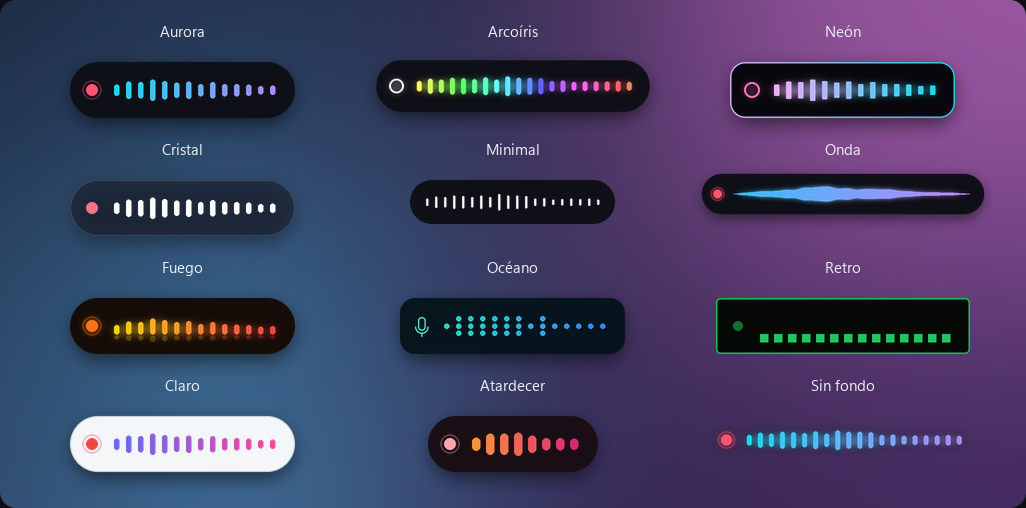
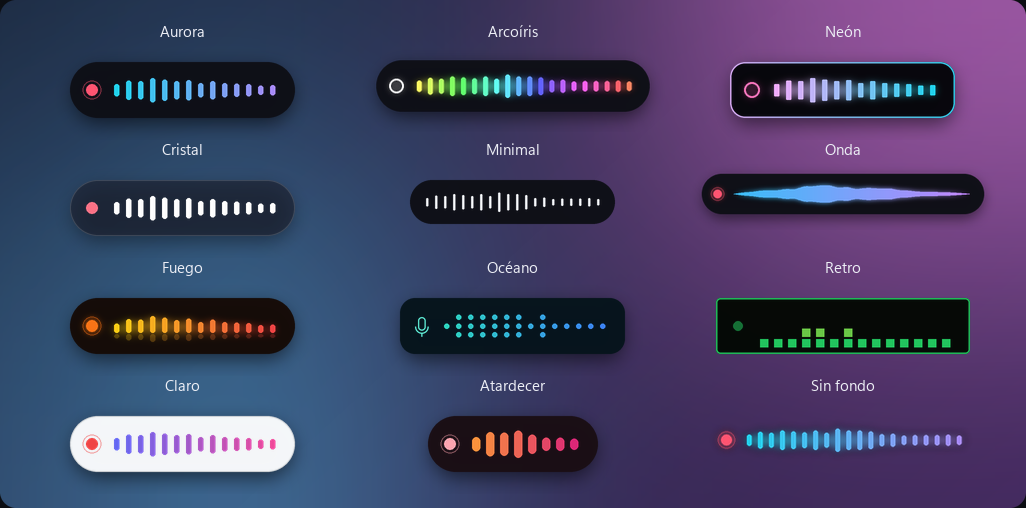
feat: barras más exageradas y deslizador de intensidad (v1.2.1)
Solo cambia cómo se VE el movimiento; el audio y la transcripción quedan igual.
- Curva de exageración (looks.exaggerate): la voz baja o lejana ahora mueve
  las barras claramente y la fuerte llega al tope; el silencio sigue quieto.
- Barras con más recorrido en los 6 estilos (hasta ~78% del alto), verificado
  que nunca se salen de la forma: 648 combinaciones al 100%, 0 píxeles afuera.
- Suben rápido y bajan suave (looks.follow): se ven más vivas.
- Ajustes: deslizador "Intensidad de las barras" (80% por defecto) con la
  vista previa reaccionando en vivo mientras se mueve.

diff --git a/looks.py b/looks.py
@@ -78,6 +78,7 @@ PRESETS = [
 ]
 PRESET_IDS = [p[0] for p in PRESETS]
 SPEED = {"smooth": 0.3, "normal": 0.6, "snappy": 0.9}
+DEFAULT_INTENSITY = 0.8   # exageración visual por defecto (Ajustes → Intensidad de las barras)
 MARGIN = 22
 _BG_ALPHA = {"solid": 250, "glass": 176, "none": 0}
 _SIZES = {"small": (44, 4, 5, 36), "normal": (56, 5, 7, 44), "large": (68, 6, 8, 52)}
@@ -177,9 +178,44 @@ def resample(bands, n):
     return np.interp(np.linspace(0, len(b) - 1, n), np.arange(len(b)), b).tolist()
 
 
+def exaggerate(levels, amount):
+    """Curva visual de las barras. amount 0..1: 0 = tal como llega del micrófono;
+    1 = muy exagerada (lo bajo se levanta mucho y lo alto llega al tope seguido).
+    Solo cambia cómo se VE: la transcripción usa el audio tal cual."""
+    try:
+        a = max(0.0, min(1.0, float(amount)))
+    except (TypeError, ValueError):
+        a = DEFAULT_INTENSITY
+    gain, gamma = 1 + 2.2 * a, 1 / (1 + 1.2 * a)
+    return [min(1.0, (max(0.0, v) * gain) ** gamma) for v in levels]
+
+
+def follow(bars, target, speed):
+    """Acerca las barras al objetivo: suben rápido y bajan más suave (se ven vivas)."""
+    k = SPEED.get(speed, 0.6)
+    up, down = min(1.0, k * 1.6), k * 0.7
+    return [b + (x - b) * (up if x > b else down) for b, x in zip(bars, target)]
+
+
+def fake_bands(n, t):
+    """Como las bandas reales del micrófono (espectro de voz: casi todo bajo y un par
+    de bandas fuertes). La vista previa las pasa por exaggerate() para mostrar el
+    efecto de la intensidad elegida."""
+    env = max(0.0, 0.5 * math.sin(t * 2.3) + 0.32 * math.sin(t * 5.1) + 0.28)
+    loud = min(1.0, env * 1.1)
+    out = []
+    for i in range(n):
+        f = i / max(1, n - 1)
+        shape = (math.exp(-((f - 0.22) / 0.16) ** 2)
+                 + 0.4 * math.exp(-((f - 0.55) / 0.12) ** 2) + 0.06)
+        wob = 0.5 + 0.5 * math.sin(t * 9.0 + i * 1.7) * math.cos(t * 4.3 + i * 0.9)
+        out.append(min(1.0, loud * shape * (0.45 + 0.55 * wob)))
+    return out
+
+
 def fake_levels(n, t):
     """Niveles que parecen voz (sílabas con pausas, más energía en graves-medios),
-    para las vistas previas."""
+    para las miniaturas de la galería."""
     env = max(0.0, 0.55 * math.sin(t * 2.3) + 0.35 * math.sin(t * 5.1) + 0.3)
     out = []
     for i in range(n):
@@ -316,7 +352,7 @@ def _bars(img, d, s, g, levels, t, S):
     if s["bars"] == "wave":
         return _wave(img, s, g, levels, t, S)
     cols = bar_colors(s, n, t)
-    maxh, minh = g["h"] * 0.66 * S, bw
+    maxh, minh = g["h"] * 0.78 * S, bw          # 78% del alto: margen para no salirse nunca
     for i in range(n):
         lv = max(0.0, min(1.0, levels[i] if i < len(levels) else 0.0))
         x = x0 + i * (bw + gap)
@@ -333,14 +369,14 @@ def _bars(img, d, s, g, levels, t, S):
                 y = cy + (j - (lit - 1) / 2) * step
                 d.ellipse([x, y - bw / 2, x + bw, y + bw / 2], fill=c)
         elif s["bars"] == "mirror":
-            base = (MARGIN + g["h"] * 0.64) * S
-            h = minh + lv * (g["h"] * 0.46 * S - minh)
+            base = (MARGIN + g["h"] * 0.62) * S
+            h = minh + lv * (g["h"] * 0.52 * S - minh)
             d.rounded_rectangle([x, base - h, x + bw, base], radius=bw / 2, fill=c)
             d.rounded_rectangle([x, base + 1.5 * S, x + bw, base + 1.5 * S + h * 0.42],
                                 radius=bw / 2, fill=_rgba(cols[i], 64))
         else:   # blocks (vúmetro retro)
             sq, gb = bw, max(S, bw * 0.34)
-            slots = max(3, int(g["h"] * 0.7 * S / (sq + gb)))
+            slots = max(3, int(g["h"] * 0.8 * S / (sq + gb)))
             lit = max(1, round(lv * slots))
             base = cy + slots * (sq + gb) / 2
             for j in range(lit):
@@ -353,7 +389,7 @@ def _bars(img, d, s, g, levels, t, S):
 def _wave(img, s, g, levels, t, S):
     n = len(levels)
     x0, cy = (MARGIN + g["left"]) * S, (MARGIN + g["h"] / 2) * S
-    width, amp = g["bars_w"] * S, g["h"] * 0.34 * S
+    width, amp = g["bars_w"] * S, g["h"] * 0.4 * S
     xf = np.linspace(0, 1, max(2, n) * 10)
     y = np.interp(xf, np.linspace(0, 1, max(2, n)), (list(levels) + [0, 0])[:max(2, n)])
     y = np.convolve(y, np.ones(9) / 9, mode="same")

diff --git a/ui.py b/ui.py
@@ -753,6 +753,59 @@ class Swatches(Flow):
         self.on_change(color)
 
 
+class Slider(tk.Canvas):
+    """Deslizador 0..1: pista redondeada, relleno con el degradé de la marca y perilla.
+    on_change mientras se arrastra (en vivo); on_release al soltar (para guardar)."""
+
+    H, KNOB = 30, 20
+
+    def __init__(self, parent, value, on_change, on_release=None, bg=SURFACE):
+        super().__init__(parent, height=self.H, bg=bg, highlightthickness=0, bd=0, cursor="hand2")
+        self.value = max(0.0, min(1.0, float(value)))
+        self.on_change, self.on_release = on_change, on_release
+        self._imgs, self._hover = {}, False
+        self._track = self.create_image(0, 0, anchor="w")
+        self._fill = self.create_image(0, 0, anchor="w")
+        self._knob = self.create_image(0, 0)
+        self.bind("<Configure>", lambda e: self._paint())
+        self.bind("<Button-1>", self._drag)
+        self.bind("<B1-Motion>", self._drag)
+        self.bind("<ButtonRelease-1>", lambda e: self.on_release and self.on_release(self.value))
+        self.bind("<Enter>", lambda e: self._set_hover(True))
+        self.bind("<Leave>", lambda e: self._set_hover(False))
+
+    def _ends(self):
+        pad = self.KNOB // 2 + 2
+        return pad, max(pad + 1, self.winfo_width() - pad)
+
+    def _paint(self):
+        if self.winfo_width() < 30:
+            return
+        x0, x1 = self._ends()
+        cy, tw = self.H / 2, x1 - x0
+        self._imgs["track"] = shape(tw, 6, 3, fill=FIELD_HI)
+        self._imgs["fill"] = shape(max(6, round(tw * self.value)), 6, 3, grad=(CYAN, VIOLET))
+        k = self.KNOB + (2 if self._hover else 0)
+        self._imgs["knob"] = shape(k, k, k // 2, fill="#ffffff", border=mix(VIOLET, "#ffffff", 0.3),
+                                   bw=2)
+        for item, key, x in ((self._track, "track", x0), (self._fill, "fill", x0),
+                             (self._knob, "knob", x0 + tw * self.value)):
+            self.itemconfigure(item, image=self._imgs[key])
+            self.coords(item, x, cy)
+
+    def _drag(self, e):
+        x0, x1 = self._ends()
+        v = max(0.0, min(1.0, (e.x - x0) / max(1, x1 - x0)))
+        if abs(v - self.value) > 0.004:
+            self.value = v
+            self._paint()
+            self.on_change(v)
+
+    def _set_hover(self, on):
+        self._hover = on
+        self._paint()
+
+
 _walls = {}
 
 
@@ -785,9 +838,11 @@ class Stage(tk.Canvas):
     """Vista previa animada de la ventanita (voz simulada) sobre un fondo tipo
     escritorio. Solo dibuja mientras está visible y no pausada."""
 
-    def __init__(self, parent, get_style, height=130, bg=SURFACE, fps=25, radius=12):
+    def __init__(self, parent, get_style, height=130, bg=SURFACE, fps=25, radius=12,
+                 get_intensity=None):
         super().__init__(parent, height=height, bg=bg, highlightthickness=0, bd=0)
         self.get_style, self.state, self.paused = get_style, "recording", False
+        self.get_intensity = get_intensity    # si está: voz realista + la exageración elegida
         self._bg, self._r, self._ms = bg, radius, int(1000 / fps)
         self._photo = None
         self._item = self.create_image(0, 0, anchor="nw")
@@ -811,11 +866,15 @@ class Stage(tk.Canvas):
         t = time.perf_counter() - self._t0
         s = self.get_style()
         n = s["bar_count"]
-        target = looks.fake_levels(n, t) if self.state == "recording" else [0.0] * n
+        if self.state != "recording":
+            target = [0.0] * n
+        elif self.get_intensity:
+            target = looks.exaggerate(looks.fake_bands(n, t), self.get_intensity())
+        else:
+            target = looks.fake_levels(n, t)
         if len(self._bars) != n:
             self._bars = [0.0] * n
-        k = looks.SPEED[s["speed"]]
-        self._bars = [b + (x - b) * k for b, x in zip(self._bars, target)]
+        self._bars = looks.follow(self._bars, target, s["speed"])
         frame = looks.render(s, self.state, self._bars, t)
         sc = min(1.0, (w - 16) / frame.width, (h - 4) / frame.height)
         if sc < 1:

diff --git a/settings.py b/settings.py
@@ -153,7 +153,7 @@ def sample_context():
     ]
     cfg = SimpleNamespace(
         mic_index=-1, hotkey="<f9>", hotkey_display="F9", sound_pack="suave",
-        overlay_preset="aurora", overlay_custom={}, overlay_mine=[],
+        overlay_preset="aurora", overlay_custom={}, overlay_mine=[], bar_intensity=0.8,
         vocabulary="Claude, GitHub, Python, React, TypeScript, Docker, Kubernetes, Figma, Notion, "
                    "Slack, Vercel, Supabase, Stripe, Tailwind, PostgreSQL, Whisper, PowerShell, "
                    "VS Code, Linear, Jira")
@@ -285,7 +285,7 @@ class SettingsView(_Toast):
         card.pack(fill="x", pady=(0, 28))
         b = card.body
         self.stage = ui.Stage(b, get_style=lambda: looks.current(self.ctx.config), height=112,
-                              fps=20)
+                              fps=24, get_intensity=self._intensity)
         self.stage.configure(cursor="hand2")
         self.stage.bind("<ButtonRelease-1>", lambda e: self._open_looks())
         self.stage.pack(fill="x")
@@ -295,6 +295,35 @@ class SettingsView(_Toast):
         self.look_name.pack(side="left")
         ui.label(row2, "Elegí un estilo o armá el tuyo", F.small, ui.TEXT_3).pack(side="right")
         self._refresh_look()
+
+        ui.separator(b).pack(fill="x", pady=18)
+        head = tk.Frame(b, bg=ui.SURFACE)
+        head.pack(fill="x")
+        ui.label(head, "Intensidad de las barras", F.body_sb).pack(side="left")
+        self.int_label = ui.label(head, "", F.small_sb, ui.ACCENT)
+        self.int_label.pack(side="right")
+        ui.label(b, "Cuánto se mueven con tu voz: mirá la vista previa mientras lo movés. "
+                    "Solo cambia cómo se ve, no cómo te entiende.", F.small, ui.TEXT_3,
+                 wraplength=440).pack(anchor="w", pady=(3, 8))
+        ui.Slider(b, self._intensity(), on_change=self._set_intensity,
+                  on_release=lambda v: self._saved()).pack(fill="x")
+        ends = tk.Frame(b, bg=ui.SURFACE)
+        ends.pack(fill="x", pady=(2, 0))
+        ui.label(ends, "Sutil", F.tiny, ui.TEXT_3).pack(side="left")
+        ui.label(ends, "Exagerada", F.tiny, ui.TEXT_3).pack(side="right")
+        self._show_intensity()
+
+    def _intensity(self):
+        return getattr(self.ctx.config, "bar_intensity", looks.DEFAULT_INTENSITY)
+
+    def _set_intensity(self, v):
+        self.ctx.config.bar_intensity = round(v, 2)     # en vivo; se guarda al soltar
+        self._show_intensity()
+
+    def _show_intensity(self):
+        v = self._intensity()
+        word = "Sutil" if v < 0.25 else "Media" if v < 0.5 else "Alta" if v < 0.8 else "Muy alta"
+        self.int_label.configure(text=f"{word} · {round(v * 100)}%")
 
     def _refresh_look(self):
         if self.look_name.winfo_exists():
@@ -570,7 +599,9 @@ class LooksView(_Toast):
         ui.label(top, "Ventanita de grabación", F.title, bg=ui.BG).pack(anchor="w")
         ui.label(top, "Elegí un estilo o armá el tuyo pieza por pieza. Se guarda solo.",
                  F.small, ui.TEXT_2, bg=ui.BG).pack(anchor="w", pady=(4, 14))
-        self.stage = ui.Stage(top, get_style=self._stage_style, height=150, bg=ui.BG, fps=30)
+        self.stage = ui.Stage(top, get_style=self._stage_style, height=150, bg=ui.BG, fps=30,
+                              get_intensity=lambda: getattr(ctx.config, "bar_intensity",
+                                                            looks.DEFAULT_INTENSITY))
         self.stage.pack(fill="x")
         bar = tk.Frame(top, bg=ui.BG)
         bar.pack(fill="x", pady=(14, 0))

diff --git a/overlay.py b/overlay.py
@@ -159,6 +159,7 @@ class Overlay:
         self.root.withdraw()
         self.get_bands = None                   # callable → bandas del micrófono (0-1)
         self.get_style = lambda: looks.resolve({})
+        self.get_intensity = lambda: looks.DEFAULT_INTENSITY   # exageración visual 0-1
         self._state = "hidden"
         self._bars = []
         self._t0 = time.perf_counter()
@@ -192,12 +193,11 @@ class Overlay:
         s = self.get_style()
         n = s["bar_count"]
         if self._state == "recording" and self.get_bands:
-            target = looks.resample(self.get_bands(), n)
+            target = looks.exaggerate(looks.resample(self.get_bands(), n), self.get_intensity())
         else:
             target = [0.0] * n
         if len(self._bars) != n:
             self._bars = [0.0] * n
-        k = looks.SPEED[s["speed"]]
-        self._bars = [b + (max(0.0, min(1.0, x)) - b) * k for b, x in zip(self._bars, target)]
+        self._bars = looks.follow(self._bars, target, s["speed"])
         img = looks.render(s, self._state, self._bars, time.perf_counter() - self._t0)
         self._win.show(img, *_position(img.size, s["position"]))

diff --git a/config.py b/config.py
@@ -62,6 +62,7 @@ class Config:
     overlay_preset: str = "aurora"
     overlay_custom: dict = field(default_factory=dict)
     overlay_mine: list = field(default_factory=list)
+    bar_intensity: float = 0.8     # cuánto se exagera el movimiento de las barras (0-1, solo visual)
 
     # Sonidos: pack elegido (ver sounds.PACKS)
     sound_pack: str = "suave"

diff --git a/main.py b/main.py
@@ -128,6 +128,7 @@ def main():
     overlay = Overlay()
     overlay.get_bands = lambda: recorder.bands   # barras = espectro real de tu voz
     overlay.get_style = lambda: looks.current(config)   # estilo elegido en Ajustes
+    overlay.get_intensity = lambda: config.bar_intensity
     sounds.set_pack(config.sound_pack)
     ui.init(overlay.root)
 

diff --git a/brand.py b/brand.py
@@ -9,7 +9,7 @@ import numpy as np
 from PIL import Image, ImageDraw
 
 APP_NAME = "Dictado App"
-__version__ = "1.2.0"
+__version__ = "1.2.1"
 
 _SS = 8
 _BRAND = ((34, 211, 238), (139, 92, 246))     # cian → violeta

diff --git a/CLAUDE.md b/CLAUDE.md
@@ -105,6 +105,11 @@ icono.ico      ícono (degradé cian→violeta con barras de onda), generado por
 - **Estilos de la ventanita**: config guarda `overlay_preset` ("aurora"…, "custom" o "mine:<nombre>"),
   `overlay_custom` y `overlay_mine`; `looks.current(config)` devuelve el estilo resuelto. `looks.resolve`
   descarta valores inválidos (un prefs.json viejo o editado a mano nunca rompe el overlay).
+- **Movimiento de las barras (solo visual)**: bandas del mic → `looks.resample` → `looks.exaggerate`
+  (curva gain+gamma según `config.bar_intensity`, 0.8 por defecto, deslizador en Ajustes) → `looks.follow`
+  (suben rápido, bajan suave). El silencio sigue quieto (0 → 0). Las barras usan hasta ~78% del alto y está
+  verificado que nunca se salen de la forma (648 combinaciones al 100%). El dueño NO quiere tocar la
+  ganancia de audio/transcripción: lo que se exagera es solo lo visual.
 - **Crear el Tk root activa la ventana un instante** (aunque se retire enseguida): pasa al arrancar la app (ok)
   y en autotests/capturas → ahí se devuelve el foco en el acto (`ui.restore_foreground`).
 - **Arranque instantáneo**: el modelo carga + warmup del mic en un hilo de fondo; el tray aparece al toque.

diff --git a/README.md b/README.md
@@ -85,6 +85,8 @@ glow and "no background" styles look right on top of anything.
 - **Recording dot**: halo, dot, ring, microphone or none, any color, with a heartbeat, blink or still
 - **Voice bars**: rounded, square, dots, wave, mirror or retro blocks; 8 to 28 bars; thin to thick;
   gradient, single color, rainbow or **animated rainbow**; optional glow; smooth to snappy motion
+- **Bar intensity**: a slider for how exaggerated the bars react to your voice (high by default, so even a
+  quiet or distant voice is clearly visible). It only changes the visuals, never the transcription
 - **While transcribing**: dots, orbit, wave or progress bar
 - **Position**: bottom or top of the screen
 - **Sounds**: Soft, Bubble, Digital, Bell or silent
